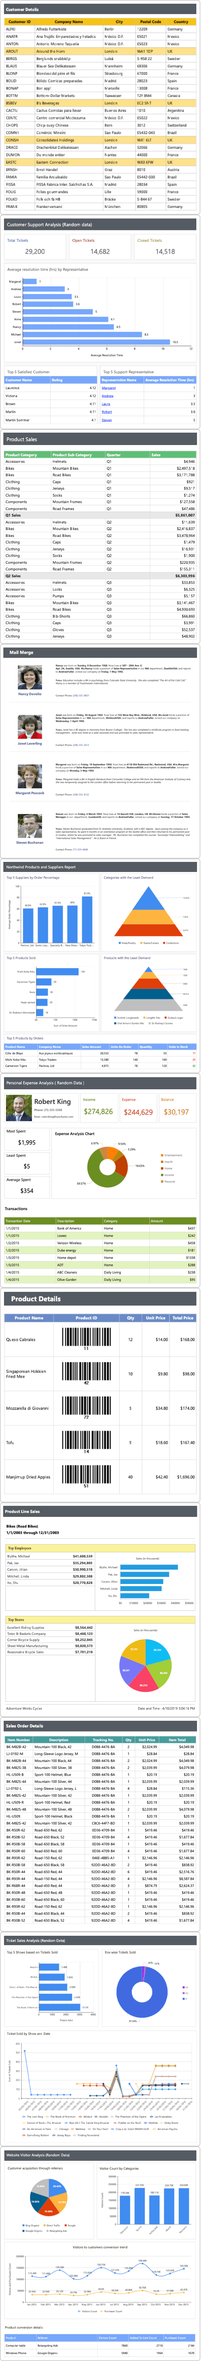
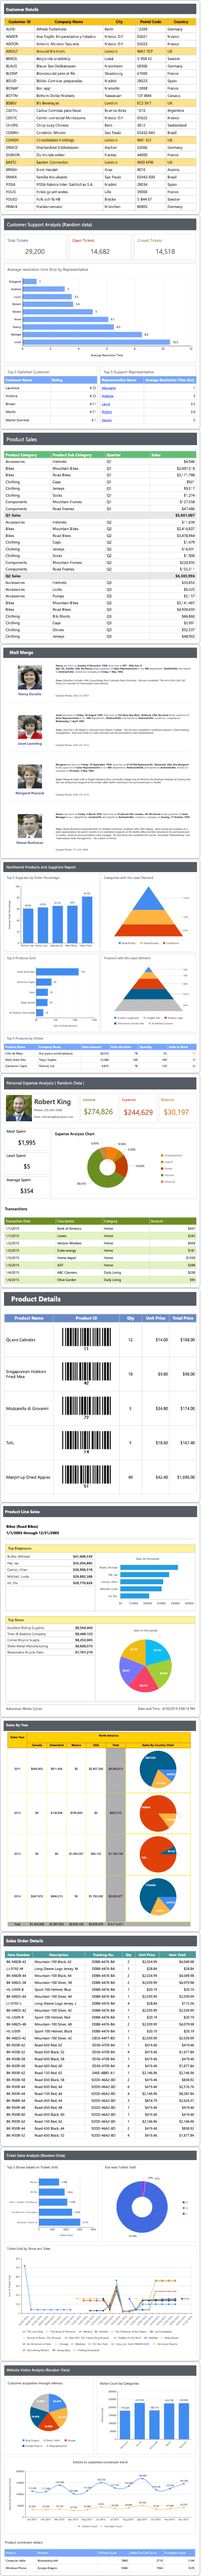
Bold Reports v2.3.26 release changes

diff --git a/src/controls/rdlcData.js b/src/controls/rdlcData.js
@@ -1,27 +1,52 @@
 window.rdlcData = {
     "product-catalog": [{
         value: [
-            { ProdSubCat: "Mountain Bikes", ProdModel: "Classic Vest", ProdCat: "Bikes", Description: "Chromoly Steel", ProdName: "Adjustable Race", ProductNumber: "AR-5381", Size: "17", Weight: 8, StandardCost: 18.14943 },
-            { ProdSubCat: "Mountain Bikes", ProdModel: "Classic Vest", ProdCat: "Bikes", Description: "Chromoly Steel", ProdName: "Bearing Ball", ProductNumber: "BA-8327", Size: "18", Weight: 9, StandardCost: 20.14943 },
-            { ProdSubCat: "Mountain Bikes", ProdModel: "Classic Vest", ProdCat: "Bikes", Description: "Chromoly Steel", ProdName: "Blade", ProductNumber: "BL-2036", Size: "21", Weight: 5, StandardCost: 16.94363 },
-            { ProdSubCat: "Mountain Bikes", ProdModel: "Classic Vest", ProdCat: "Bikes", Description: "Chromoly Steel", ProdName: "BB Ball Bearing", ProductNumber: "BE-2349", Size: "19", Weight: 4, StandardCost: 24.36073 },
-            { ProdSubCat: "Mountain Bikes", ProdModel: "Classic Vest", ProdCat: "Bikes", Description: "Chromoly Steel", ProdName: "LL Crankarm", ProductNumber: "CA-5965", Size: "20", Weight: 5, StandardCost: 23.59483 },
-            { ProdSubCat: "Mountain Bikes", ProdModel: "Classic Vest", ProdCat: "Bikes", Description: "Chromoly Steel", ProdName: "Chainring Bolts", ProductNumber: "CB-2903", Size: "16", Weight: 7, StandardCost: 21.35394 },
-            { ProdSubCat: "Mountain Bikes", ProdModel: "Classic Vest", ProdCat: "Bikes", Description: "Chromoly Steel", ProdName: "Chainring Nut", ProductNumber: "CN-6137", Size: "22", Weight: 8, StandardCost: 18.93763 },
-            { ProdSubCat: "Mountain Bikes", ProdModel: "Classic Vest", ProdCat: "Bikes", Description: "Chromoly Steel", ProdName: "Crown Race", ProductNumber: "CR-9981", Size: "17", Weight: 6, StandardCost: 16.09237 },
-            { ProdSubCat: "Mountain Bikes", ProdModel: "Classic Vest", ProdCat: "Bikes", Description: "Chromoly Steel", ProdName: "Chain Stays", ProductNumber: "CS-2812", Size: "21", Weight: 4, StandardCost: 20.17643 },
-            { ProdSubCat: "Mountain Bikes", ProdModel: "Classic Vest", ProdCat: "Bikes", Description: "Chromoly Steel", ProdName: "Mountain End Caps", ProductNumber: "EC-M092", Size: "19", Weight: 9, StandardCost: 15.40653 },
-            { ProdSubCat: "Mountain Bikes", ProdModel: "Classic Vest", ProdCat: "Bikes", Description: "Chromoly Steel", ProdName: "Road End Caps", ProductNumber: "EC-R098", Size: "16", Weight: 7, StandardCost: 21.64453 },
-            { ProdSubCat: "Mountain Bikes", ProdModel: "Classic Vest", ProdCat: "Bikes", Description: "Chromoly Steel", ProdName: "Touring End Caps", ProductNumber: "EC-T209", Size: "20", Weight: 8, StandardCost: 17.89680 },
-            { ProdSubCat: "Mountain Bikes", ProdModel: "Classic Vest", ProdCat: "Bikes", Description: "Chromoly Steel", ProdName: "Freewheel", ProductNumber: "FH-2981", Size: "17", Weight: 6, StandardCost: 22.45092 },
-            { ProdSubCat: "Mountain Bikes", ProdModel: "Classic Vest", ProdCat: "Bikes", Description: "Chromoly Steel", ProdName: "Flat Washer 1", ProductNumber: "FW-1000", Size: "22", Weight: 7, StandardCost: 23.57093 },
-            { ProdSubCat: "Mountain Bikes", ProdModel: "Classic Vest", ProdCat: "Bikes", Description: "Chromoly Steel", ProdName: "Fork Crown", ProductNumber: "FC-3654", Size: "18", Weight: 5, StandardCost: 20.10940 },
-            { ProdSubCat: "Mountain Bikes", ProdModel: "Classic Vest", ProdCat: "Bikes", Description: "Chromoly Steel", ProdName: "Guide Pulley", ProductNumber: "GP-0982", Size: "21", Weight: 9, StandardCost: 16.24653 },
-            { ProdSubCat: "Mountain Bikes", ProdModel: "Classic Vest", ProdCat: "Bikes", Description: "Chromoly Steel", ProdName: "LL Grip Tape", ProductNumber: "GT-0820", Size: "17", Weight: 4, StandardCost: 15.57230 },
-            { ProdSubCat: "Mountain Bikes", ProdModel: "Classic Vest", ProdCat: "Bikes", Description: "Chromoly Steel", ProdName: "Hex Nut 5", ProductNumber: "HN-1024", Size: "19", Weight: 7, StandardCost: 24.42901 },
-            { ProdSubCat: "Mountain Bikes", ProdModel: "Classic Vest", ProdCat: "Bikes", Description: "Chromoly Steel", ProdName: "Hex Nut 6", ProductNumber: "HN-1032", Size: "21", Weight: 6, StandardCost: 15.62418 },
-            { ProdSubCat: "Mountain Bikes", ProdModel: "Classic Vest", ProdCat: "Bikes", Description: "Chromoly Steel", ProdName: "Head Tube", ProductNumber: "HT-8019", Size: "20", Weight: 9, StandardCost: 22.68503 }
[20 lines of base64/hex data omitted]
         ],
         name: "ProductCatalog"
+    }],
+    "sales-by-year": [{
+        value: [
+            { Region: "North America", Country: "Canada", Year: 2011, Revenue: "464953" },
+            { Region: "North America", Country: "Greenland", Year: 2011, Revenue: "811404" },
+            { Region: "North America", Country: "Mexico", Year: 2011, Revenue: "0" },
+            { Region: "North America", Country: "USA", Year: 2011, Revenue: "2807256" },
+            { Region: "North America", Country: "Canada", Year: 2012, Revenue: "0" },
+            { Region: "North America", Country: "Greenland", Year: 2012, Revenue: "136656" },
+            { Region: "North America", Country: "Mexico", Year: 2012, Revenue: "790859" },
+            { Region: "North America", Country: "USA", Year: 2012, Revenue: "0" },
+            { Region: "North America", Country: "Canada", Year: 2013, Revenue: "0" },
+            { Region: "North America", Country: "Greenland", Year: 2013, Revenue: "0" },
+            { Region: "North America", Country: "Mexico", Year: 2013, Revenue: "1064007" },
+            { Region: "North America", Country: "USA", Year: 2013, Revenue: "86122" },
+            { Region: "North America", Country: "Canada", Year: 2014, Revenue: "347672" },
+            { Region: "North America", Country: "Greenland", Year: 2014, Revenue: "490213" },
+            { Region: "North America", Country: "Mexico", Year: 2014, Revenue: "0" },
+            { Region: "North America", Country: "USA", Year: 2014, Revenue: "1783092" },
+            { Region: "North America", Country: "Canada", Year: 2015, Revenue: "630923" },
+            { Region: "North America", Country: "Greenland", Year: 2015, Revenue: "519280" },
+            { Region: "North America", Country: "Mexico", Year: 2015, Revenue: "780234" },
+            { Region: "North America", Country: "USA", Year: 2015, Revenue: "0" }
+        ],
+        name: "SalesByYear"
     }]
 };

diff --git a/build/templates/report-designer/rdlc/index.js b/build/templates/report-designer/rdlc/index.js
@@ -46,13 +46,27 @@ let isServerReoport;
 function controlCreate() {
     designerInst = $('#container').data('boldReportDesigner');
     let reportName = getReportName();
-    designerInst.setModel({
-        reportType: 'RDLC',
-        previewReport: previewReport,
-        previewOptions: {
-            exportItemClick: window.Globals.EXPORT_ITEM_CLICK
-        }
-    });
+    if (reportName == "load-large-data.rdlc") {
+        designerInst.setModel({
+            reportType: 'RDLC',
+            previewReport: previewReport,
+            previewOptions: {
+                exportItemClick: window.Globals.EXPORT_ITEM_CLICK,
+                toolbarSettings: {
+                    items: ej.ReportViewer.ToolbarItems.All & ~ej.ReportViewer.ToolbarItems.Export & ~ej.ReportViewer.ToolbarItems.Print
+                }
+            }
+        });
+    }
+    else {
+        designerInst.setModel({
+            reportType: 'RDLC',
+            previewReport: previewReport,
+            previewOptions: {
+                exportItemClick: window.Globals.EXPORT_ITEM_CLICK
+            }
+        });
+    }
     if (reportName) {
         updateDescription();
         designerInst.openReport(reportName);
@@ -72,9 +86,11 @@ function previewReport(args) {
         let reportPath = args.model.reportPath;
         reportPath = reportPath.indexOf('//') !== -1 ? reportPath.substring(2) : reportPath
         let reportNameWithoutExt = reportPath.split(".rdlc")[0];
-        datasource = rdlcData[reportNameWithoutExt];
+        if (reportNameWithoutExt != "load-large-data") {
+            datasource = rdlcData[reportNameWithoutExt];
+            args.dataSets = datasource;
+        }
         args.cancelDataInputDialog = true;
-        args.dataSets = datasource;
     }
 }
 

diff --git a/src/controls/load-large-data/load-large-data.js b/src/controls/load-large-data/load-large-data.js
@@ -1,0 +1,36 @@
+/**
+ * Load Large Data - This RDLC report demonstrates complete details of sales orders in Adventure Works.
+ */
+$(function () {
+    $("#container").boldReportViewer({
+        // Specifies the report Web API service URL. It is used to process the reports.
+        reportServiceUrl: window.Globals.SERVICE_URL,
+        // Specifies the path of the RDL report file
+        reportPath: 'load-large-data.rdlc',
+        toolbarSettings: {
+            showToolbar: true,
+            items: ej.ReportViewer.ToolbarItems.All & ~ej.ReportViewer.ToolbarItems.Export & ~ej.ReportViewer.ToolbarItems.Print,
+            customGroups: [{
+                items: [{
+                    type: 'Default',
+                    cssClass: "e-icon e-edit e-reportviewer-icon ej-webicon CustomGroup",
+                    id: "edit-report",
+                    // Need to add the proper header and content once, the tool tip issue resolved.
+                    tooltip: {
+                        header: 'Edit Report',
+                        content: 'Edit this report in designer'
+                    }
+                }],
+                // Need to remove the css (e-reportviewer-toolbarcontainer ul.e-ul:nth-child(4)) once the group index issue resolved
+                groupIndex: 3,
+                cssClass: "e-show"
+            }]},
+        toolBarItemClick: window.Globals.EDIT_REPORT,
+        reportLoaded: onReportLoaded,
+        processingMode: 'Local',
+        exportItemClick: window.Globals.EXPORT_ITEM_CLICK
+    });
+});
+
+function onReportLoaded(args) {
+}

diff --git a/src/controls/sales-by-year/sales-by-year.js b/src/controls/sales-by-year/sales-by-year.js
@@ -1,0 +1,22 @@
+/**
+ * Product Catalog - This RDLC report demonstrates the list of products rendered in Syncfusion Report Viewer.
+ */
+$(function () {
+    $("#container").boldReportViewer({
+        // Specifies the report Web API service URL. It is used to process the reports.
+        reportServiceUrl: window.Globals.SERVICE_URL,
+        // Specifies the path of the RDL report file
+        reportPath: 'sales-by-year.rdlc',
+        toolbarSettings: window.Globals.TOOLBAR_OPTIONS,
+        toolBarItemClick: window.Globals.EDIT_REPORT,
+        reportLoaded: onReportLoaded,
+        processingMode: 'Local',
+        exportItemClick: window.Globals.EXPORT_ITEM_CLICK
+    });
+});
+
+function onReportLoaded(args) {
+    let reportNameWithoutExt = args.model.reportPath.split(".")[0];
+    let reportObj = $('#container').data("boldReportViewer");
+    reportObj.model.dataSources = rdlcData[reportNameWithoutExt];
+}

diff --git a/build/templates/report-designer/index.html b/build/templates/report-designer/index.html
@@ -6,7 +6,7 @@
     <meta charset="utf-8">
     <meta name="viewport" content="width=device-width, initial-scale=1.0, user-scalable=no">
     <meta name="description"
-        content="The HTML5 web report designer allows the end-users to arrange/customize the reports appearance in browsers. It helps to edit the {{sampleName}} for customer's application needs.">
+        content="The JavaScript bold report designer allows the end-users to arrange/customize the reports appearance in browsers. It helps to edit the {{sampleName}} for customer's application needs.">
     <script>
         function validateBrowser() {
             var uaValidate = navigator.userAgent.match(/(MSIE |Trident.*rv[ :])([0-9]+)/);

diff --git a/build/templates/report-designer/rdlc/index.html b/build/templates/report-designer/rdlc/index.html
@@ -6,7 +6,7 @@
     <meta charset="utf-8">
     <meta name="viewport" content="width=device-width, initial-scale=1.0, user-scalable=no">
     <meta name="description"
-        content="The HTML5 web report designer allows the end-users to arrange/customize the reports appearance in browsers. It helps to edit the {{sampleName}} for customer's application needs.">
+        content="The JavaScript bold report designer allows the end-users to arrange/customize the reports appearance in browsers. It helps to edit the {{sampleName}} for customer's application needs.">
     <script>
         function validateBrowser() {
             var uaValidate = navigator.userAgent.match(/(MSIE |Trident.*rv[ :])([0-9]+)/);

diff --git a/build/templates/common/index.html b/build/templates/common/index.html
@@ -5,7 +5,7 @@
     <title>{{title}}</title>
     <meta charset="utf-8">
     <meta name="description"
-        content="The HTML5 web report viewer allows the end-users to visualize the {{sampleName}} report in browsers.">
+        content="The JavaScript bold report viewer allows the end-users to visualize the {{sampleName}} report in browsers.">
     <meta name="viewport" content="width=device-width, initial-scale=1.0, user-scalable=no">
     <script type="text/javascript" src="../../../scripts/common/ej2-base.min.js"></script>
     <script type="text/javascript" src="../../../scripts/common/ej2-data.min.js"></script>

diff --git a/src/common/sidebar/sidebar.js b/src/common/sidebar/sidebar.js
@@ -48,9 +48,8 @@ export class Sidebar {
     }
 
     onHomeBtnClick() {
-        let sampleData = data.default.samples[index];
-        const reportPath = sampleData.routerPath ? (sampleData.basePath + '/' + sampleData.routerPath) : sampleData.basePath;
-        hasher.setHash(reportPath);
+        let homePageUrl = location.origin.indexOf('demos.boldreports.com') !== -1 ? '/home/' : '/';
+        location.href = location.origin + homePageUrl;
     }
 
     closest(element, selector) {

diff --git a/src/controls/sales-by-year/sales-by-year.html b/src/controls/sales-by-year/sales-by-year.html
@@ -1,0 +1,9 @@
+<div id="container"></div>
+<div id="description">
+    <p>
+        This demos allows you to view the sales by year <b>RDLC</b> that exist on the <code>local</code> file system with JSON array and custom business object data collection.
+    </p>
+    <p>
+        More information about RDLC report can be found in this <a href="https://documentation.boldreports.com/javascript/report-viewer/rdlc-report/" target="_blank">documentation</a> section.
+    </p>
+</div>

diff --git a/src/controls/load-large-data/load-large-data.html b/src/controls/load-large-data/load-large-data.html
@@ -1,0 +1,9 @@
+<div id="container"></div>
+<div id="description">
+    <p>
+        This demos allows you to view the sales order details <b>RDLC</b> with <code>large data</code> using the table report item.
+    </p>
+    <p>
+        More information about RDLC report can be found in this <a href="https://documentation.boldreports.com/javascript/report-viewer/rdlc-report/" target="_blank">documentation</a> section.
+    </p>
+</div>

diff --git a/src/common/sidebar/sidebar.css b/src/common/sidebar/sidebar.css
@@ -51,7 +51,7 @@
   width: 90px;
   margin: 8px;
   background-image: url('./../../../assets/sidebar/portrait.png');
-  background-size: 100% 1100%;
+  background-size: 100% 1200%;
 }
 
 .ej-sidebar-content .ej-sb-toc .ej-sb-toc-card .ej-sb-toc-title {
